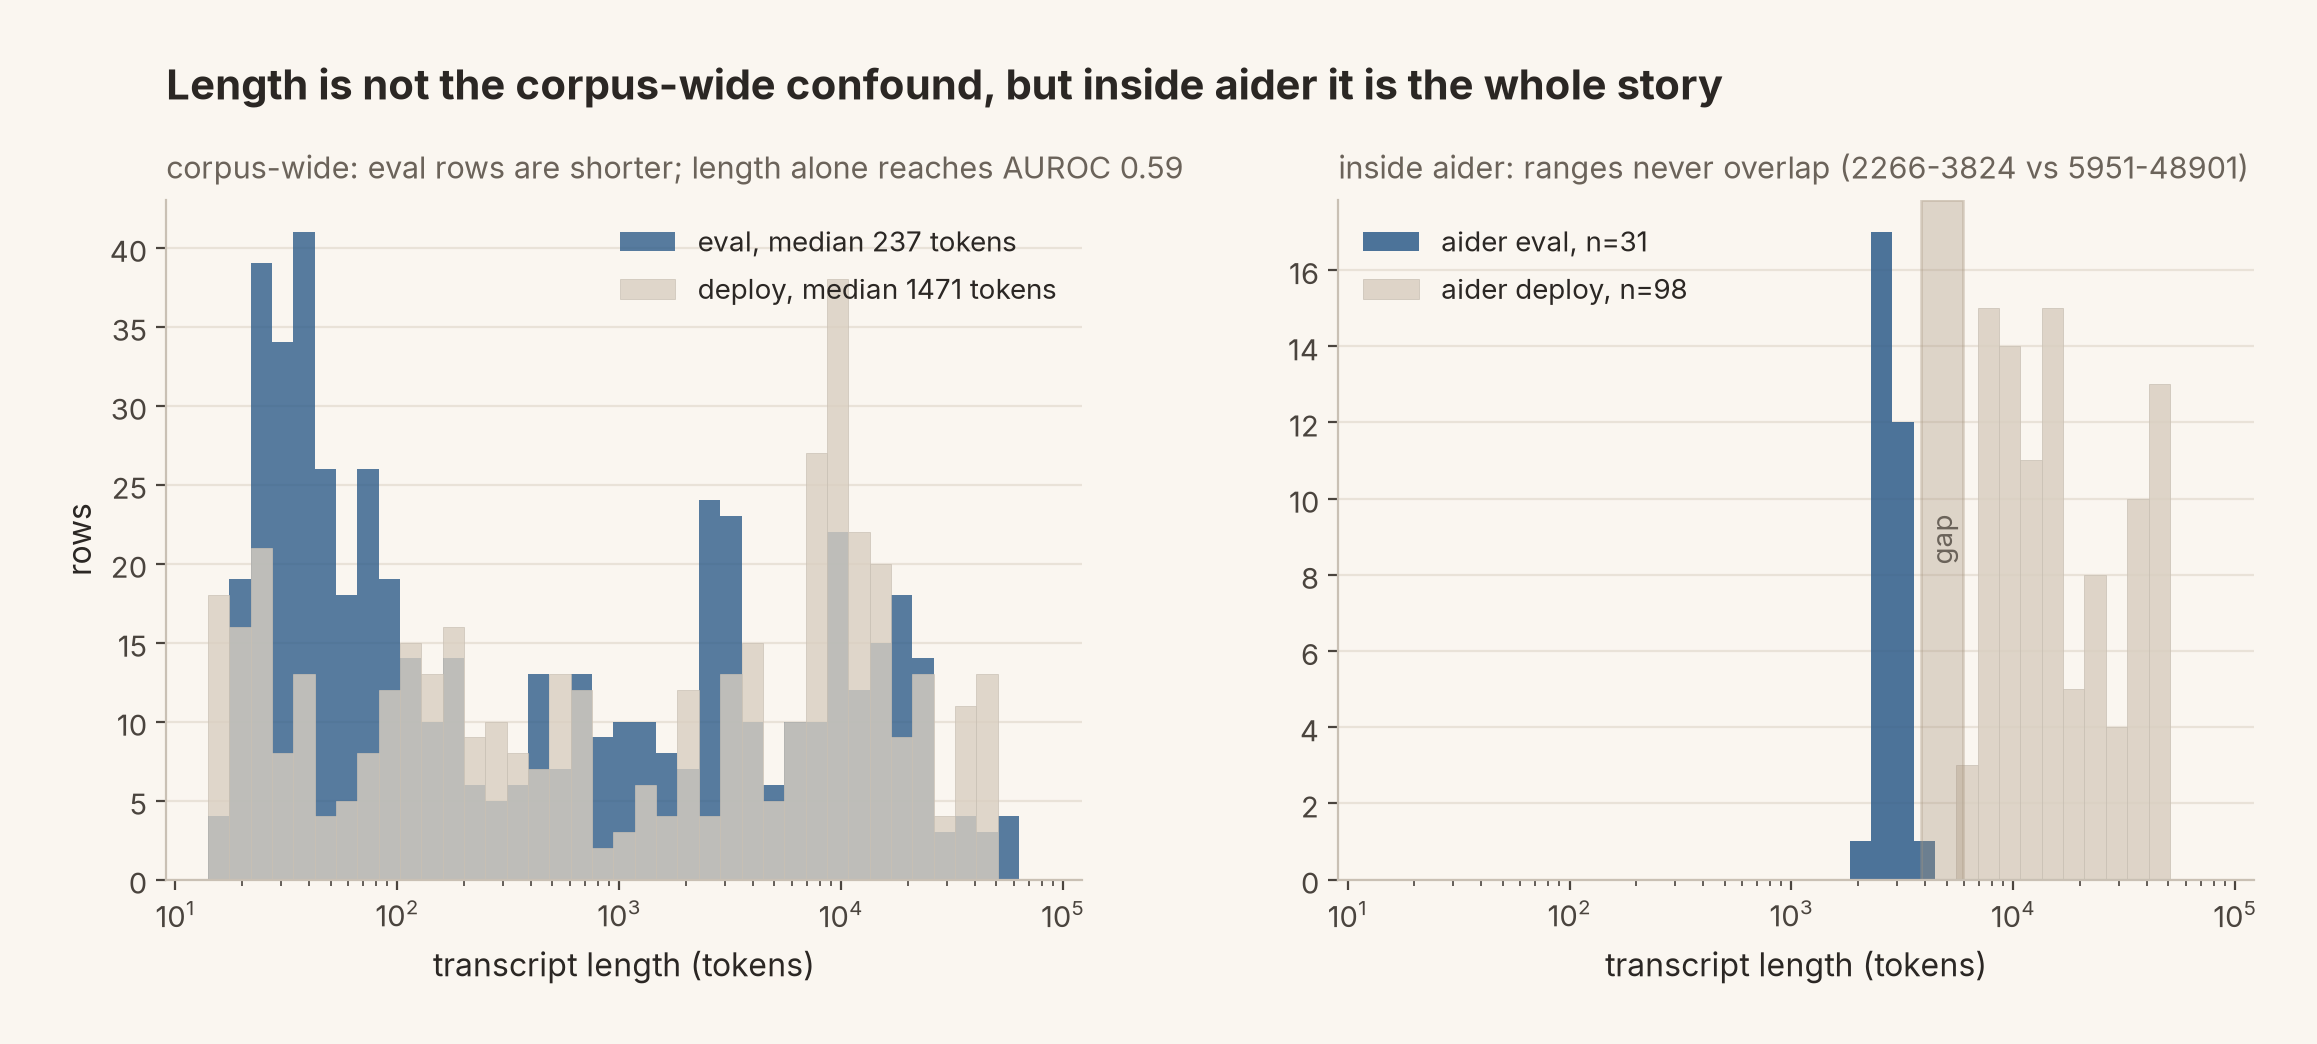
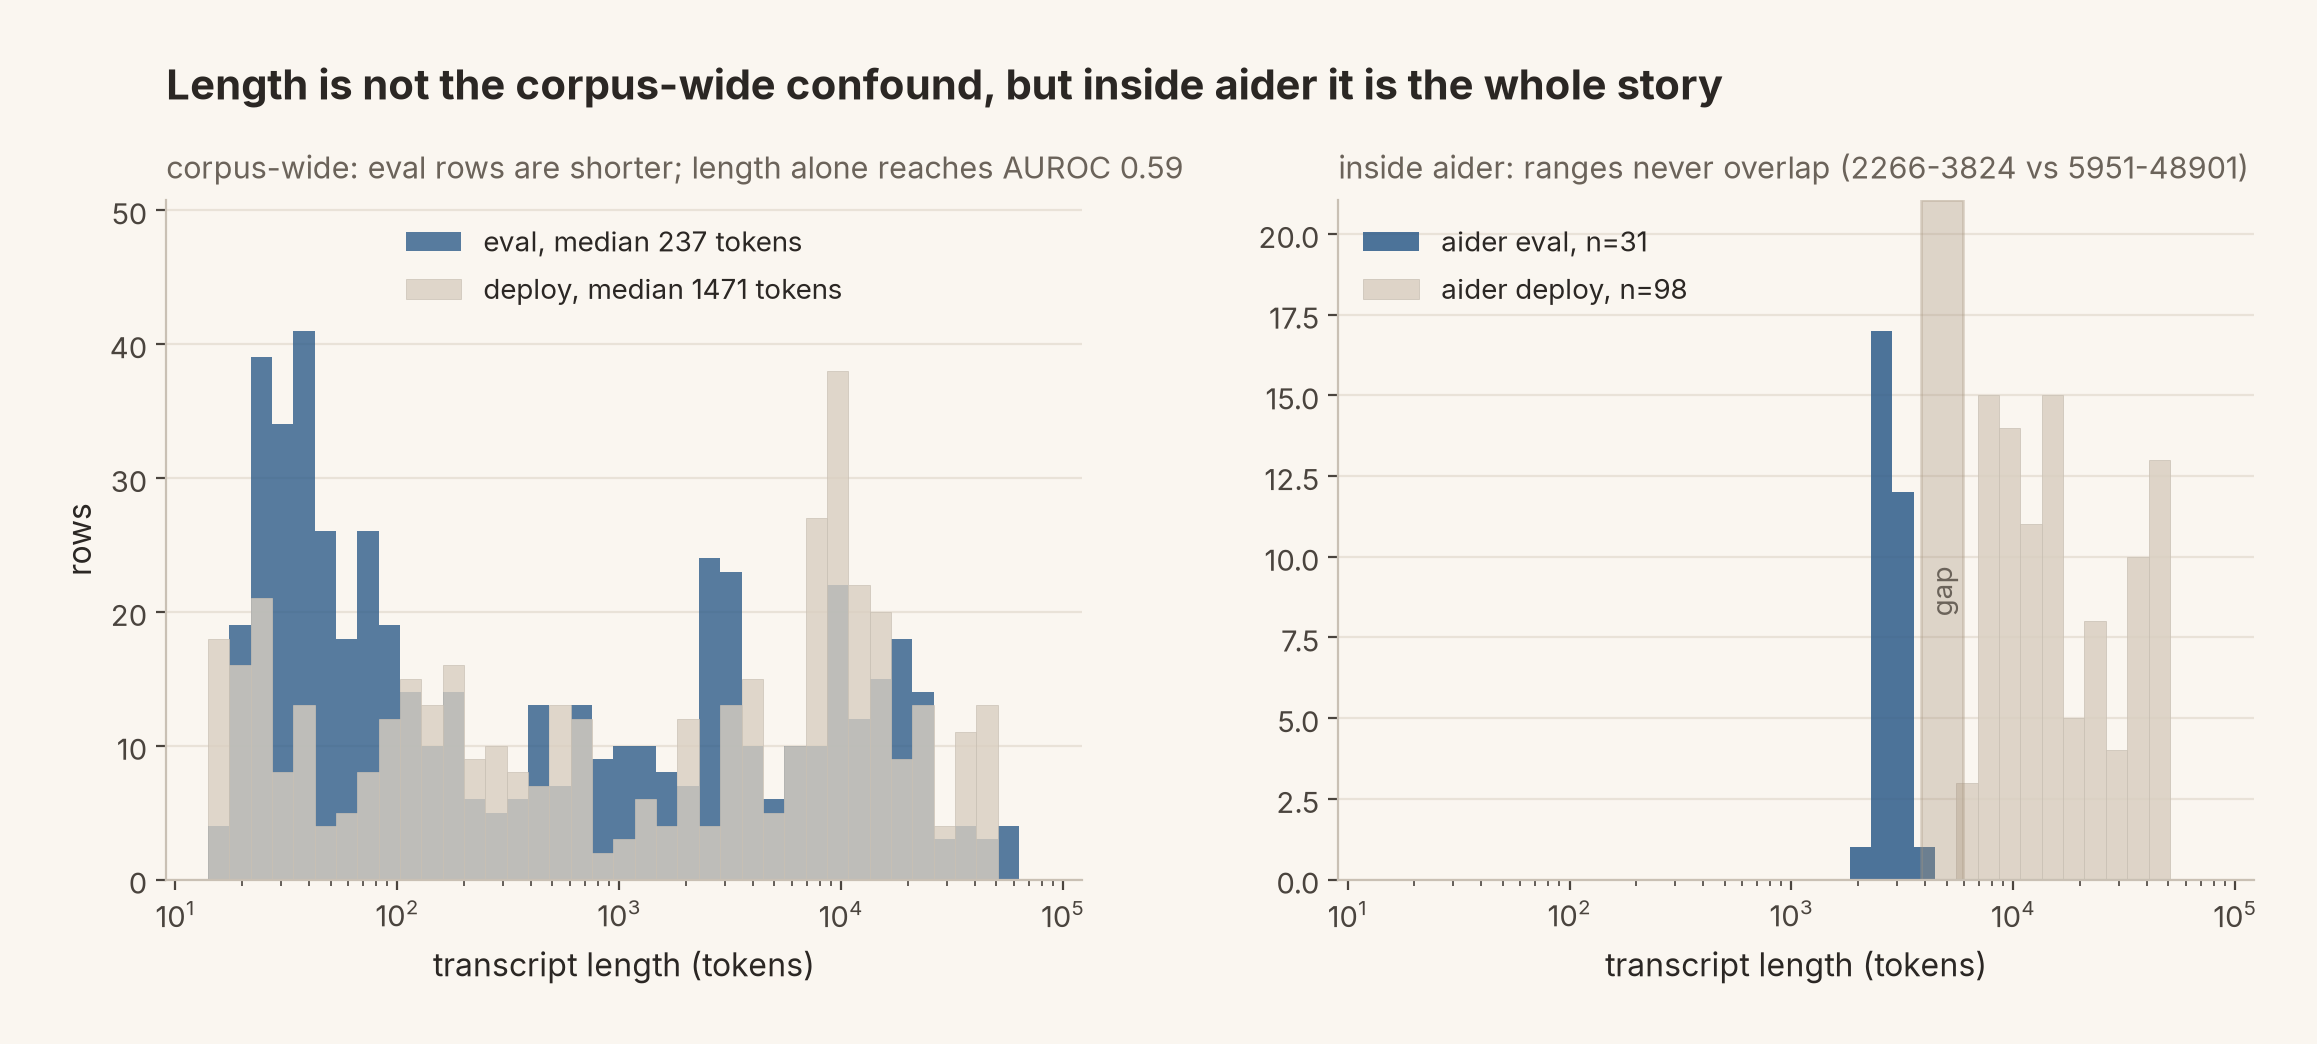
Figures: legend off the deploy peak in pub_h; chance tags outside axes; pub_i labels above CI caps

diff --git a/evalaware/pub_figures.py b/evalaware/pub_figures.py
@@ -98,7 +98,7 @@ def fig_a(c):
     ax.axhline(tf, color=WARMGREY, lw=1.6, ls="--"); ax.text(3.75, tf - 0.028, f"TF-IDF words, no model  {tf:.3f}", ha="right", color=WARMGREY, fontsize=10)
     hm = np.mean([lm["baselines_shared"]["human_author1"]["auroc"], lm["baselines_shared"]["human_author2"]["auroc"]])
     ax.axhline(hm, color=SAGE, lw=1.4, ls=":"); ax.text(3.75, hm - 0.028, f"human annotators  {hm:.2f}", ha="right", color=SAGE, fontsize=10)
-    ax.axhline(0.5, color=DEEMPH, lw=0.8, ls=":"); ax.text(3.75, 0.508, "chance", ha="right", color=DEEMPH, fontsize=10)
+    ax.axhline(0.5, color=DEEMPH, lw=0.8, ls=":"); ax.text(3.8, 0.5, "chance", ha="left", va="center", color=DEEMPH, fontsize=10, clip_on=False)
     ax.set_xticks(np.arange(4) + w / 2); ax.set_xticklabels(labels); ax.set_ylim(0.4, 1.02); ax.set_ylabel("AUROC"); _ygrid(ax)
     _title(ax, "Same probe, same layer, same corpus. Only the split changes.", "crimson = the number that is not real. 4B solid, 8B hatched. Bootstrap 95% intervals.")
     ax.legend(loc="upper center", bbox_to_anchor=(0.5, -0.12), ncol=2)
@@ -265,12 +265,12 @@ def fig_h(c):
     fig, (ax, ax2) = _fig(12, 5, ncols=2); bins = np.logspace(np.log10(nt.min()), np.log10(nt.max()), 40)
     ax.hist(nt[c.y == 1], bins=bins, alpha=0.8, color=SLATE, label=f"eval, median {int(np.median(nt[c.y == 1]))} tokens")
     ax.hist(nt[c.y == 0], bins=bins, alpha=0.8, color=SAND, edgecolor=EDGE, linewidth=0.3, label=f"deploy, median {int(np.median(nt[c.y == 0]))} tokens")
-    a = roc_auc_score(c.y, nt); ax.set_xscale("log"); ax.set_xlabel("transcript length (tokens)"); ax.set_ylabel("rows"); ax.legend(loc="upper right"); _ygrid(ax)
+    a = roc_auc_score(c.y, nt); ax.set_xscale("log"); ax.set_xlabel("transcript length (tokens)"); ax.set_ylabel("rows"); ax.set_ylim(0, ax.get_ylim()[1] * 1.18); ax.legend(loc="upper center"); _ygrid(ax)
     ax.text(0, 1.02, f"corpus-wide: eval rows are shorter; length alone reaches AUROC {max(a, 1 - a):.2f}", transform=ax.transAxes, fontsize=11, color=SUPPORT, va="bottom")
     m = fam == "aider"; ev, dp = nt[m & (c.y == 1)], nt[m & (c.y == 0)]
     ax2.hist(ev, bins=bins, alpha=0.85, color=SLATE, label=f"aider eval, n={len(ev)}"); ax2.hist(dp, bins=bins, alpha=0.85, color=SAND, edgecolor=EDGE, linewidth=0.3, label=f"aider deploy, n={len(dp)}")
     ax2.axvspan(ev.max(), dp.min(), color=SAND_DK, alpha=0.35); ax2.text(np.sqrt(ev.max() * dp.min()), ax2.get_ylim()[1] * 0.5, "gap", ha="center", va="center", rotation=90, **ANN)
-    ax2.set_xscale("log"); ax2.set_xlabel("transcript length (tokens)"); ax2.legend(loc="upper left"); _ygrid(ax2)
+    ax2.set_xscale("log"); ax2.set_xlabel("transcript length (tokens)"); ax2.set_ylim(0, ax2.get_ylim()[1] * 1.18); ax2.legend(loc="upper left"); _ygrid(ax2)
     ax2.text(0, 1.02, f"inside aider: ranges never overlap ({ev.min()}-{ev.max()} vs {dp.min()}-{dp.max()})", transform=ax2.transAxes, fontsize=11, color=SUPPORT, va="bottom")
     fig.text(0.1, 0.93, "Length is not the corpus-wide confound, but inside aider it is the whole story", fontsize=15, fontweight="bold", color=INK, va="bottom")
     _save(fig, "pub_h_lengths")
@@ -287,9 +287,10 @@ def fig_i(c):
         hi = [ci[s][k]["ci95"][1] - v for v, k in zip(vals, CONDITIONS)] if ci else None
         ax.bar(x, vals, w, edgecolor=INK, linewidth=0.5, label=s, yerr=[lo, hi] if ci else None, capsize=3, error_kw=dict(ecolor=INK, lw=0.8), **shade(s, SLATE))
         for xi, v, k in zip(x, vals, CONDITIONS):
-            ax.text(xi, v - 0.035, f"{v:.2f}", ha="center", color=SLATE, bbox=BOX, **LBL)
-    ax.axhline(0.5, ls=":", color=DEEMPH, lw=0.9); ax.text(3.75, 0.508, "chance", ha="right", color=DEEMPH, fontsize=10)
-    ax.set_ylim(0, 0.72); ax.set_xticks(np.arange(4) + w / 2)
+            top = ci[s][k]["ci95"][1] if ci else v
+            ax.text(xi, top + 0.012, f"{v:.2f}", ha="center", color=SLATE, **LBL)
+    ax.axhline(0.5, ls=":", color=DEEMPH, lw=0.9); ax.text(3.8, 0.5, "chance", ha="left", va="center", color=DEEMPH, fontsize=10, clip_on=False)
+    ax.set_ylim(0, 0.76); ax.set_xticks(np.arange(4) + w / 2)
     ax.set_xticklabels(["original", "eval rows get\ngeneric prompt", "hackaprompt gets\nGOURD prompt", "both swapped"])
     ax.set_ylabel("AUROC inside prompt_injection"); _ygrid(ax)
     _title(ax, "Swapping the system prompts does not cure the inversion", "prompt_injection family, n=56 per condition, bootstrap 95% CI")
